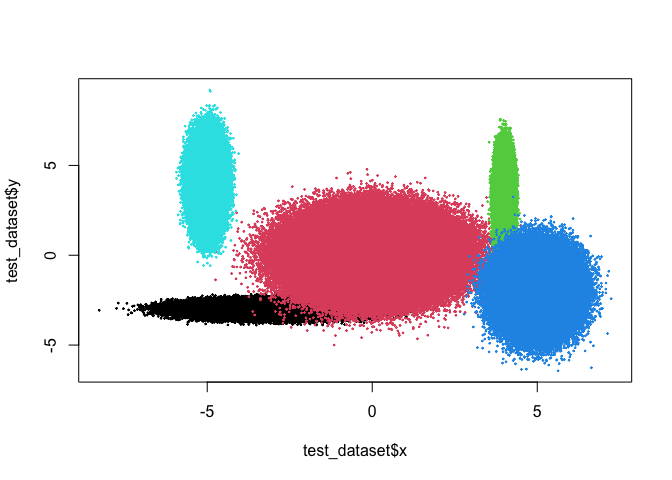
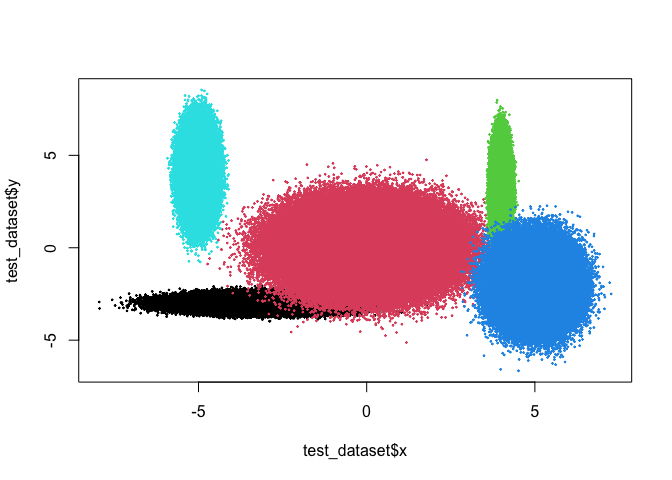
Added set.seed

diff --git a/README.md b/README.md
@@ -29,6 +29,9 @@ This is a basic example of clustering a large dataset using `sbclust`:
 
 ``` r
 library(sbclust)
+
+# Set seed
+set.seed(731)
 ```
 
 Create test dataset containing three million cases with two attributes
@@ -110,16 +113,14 @@ clustering_result <-
     centers = 5,
     iter.max = 5000,
   )
-#> Committee Member: 1(1) 2(1)
-#> Warning: Quick-TRANSfer stage steps exceeded maximum (= 1500000)
-#>  3(1) 4(1) 5(1) 6(1) 7(1) 8(1) 9(1) 10(1)
+#> Committee Member: 1(1) 2(1) 3(1) 4(1) 5(1) 6(1) 7(1) 8(1) 9(1) 10(1)
 #> Computing Hierarchical Clustering
 
 end_time <- Sys.time()
 
 # Check time lapsed
 end_time - start_time
-#> Time difference of 4.39543 secs
+#> Time difference of 2.752387 secs
 
 # Save results
 test_dataset["sbclust"] <- clustering_result$cluster
@@ -151,13 +152,15 @@ centres_mean
 #> [4,]    5   -2
 #> [5,]   -5    4
 clustering_result$centers
-#>             [,1]         [,2]
-#> [1,] -5.00067220  3.997514959
-#> [2,] -0.01726185 -0.003989398
-#> [3,]  3.99938078  2.958830824
-#> [4,] -2.98481256 -2.978829030
-#> [5,]  4.98959292 -2.016939714
+#>             [,1]        [,2]
+#> [1,] -2.93495861 -2.97712309
+#> [2,] -4.99697385  4.00287657
+#> [3,]  4.00143651  2.96656323
+#> [4,]  4.99873275 -2.06894441
+#> [5,]  0.02995233  0.03501335
 ```
+
+### Comparison with `e1071::bclust`
 
 Run the `e1071::bclust` algorithm for comparison.
 
@@ -198,7 +201,7 @@ e1071_bclust_end_time <- Sys.time()
 
 # Check time lapsed
 e1071_bclust_end_time - e1071_bclust_start_time
-#> Time difference of 51.96697 secs
+#> Time difference of 44.46283 secs
 
 # Save results
 test_dataset["e1071_bclust"] <- e1071_bclust_result$cluster
@@ -231,13 +234,13 @@ centres_mean
 #> [5,]   -5    4
 e1071_bclust_result$centers
 #>             [,1]        [,2]
-#> [1,]  0.05314523  0.04469808
-#> [2,]  4.96814331 -1.91085371
-#> [3,]  4.00041030  3.10881850
-#> [4,] -2.92967062 -2.96602800
-#> [5,] -4.99764063  4.03409381
+#> [1,]  0.04899088 -0.02484013
+#> [2,] -3.03003890 -2.98202968
+#> [3,]  3.99900952  3.12774237
+#> [4,]  4.99582723 -2.01047696
+#> [5,] -4.99540728  3.96691885
 ```
 
 The examples above illustrate how, when working with large datasets,
 `sbclust` can achieve similar results as `e1071::bclust` in a fraction
-(8.46%) of the time.
+(6.19%) of the time.
